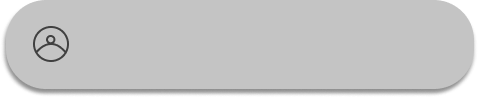
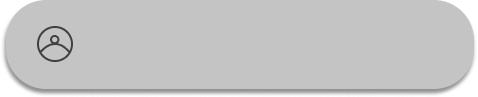
stuff

Changed region(s): [[0.0586, 0.2474, 0.1757, 0.6495]]

diff --git a/login_page.py b/login_page.py
@@ -3,7 +3,6 @@ import smtplib
 import random
 import requests
 
-
 # main window for login page
 login = Tk()
 login.geometry('1366x768')
@@ -102,36 +101,31 @@ password = StringVar()
 password.set('Password')
 
 # Button,Label and Placements
-user = Label(login,
-             text='Username',
-             font=('Arial', 20),
-             bg='#2FB2AB'
-             ).place(x=440, y=206)
+
+l_til = Label(login,
+              text='Login',
+              font=('Arial', 54),
+              bg='#2FB2AB', ).place(x=552, y=98, )
 
 userbox = PhotoImage(file='Images/Username Box.png')
 user_bg = Label(login,
                 image=userbox,
                 bg='#2FB2AB',
-                bd=0).place(x=406, y=247, )
+                bd=0).place(x=406, y=236, )
 user_ent = Entry(login,
                  text=username,
                  font=('Arial', 20),
                  bd=0,
                  bg='#C4C4C4',
-                 ).place(x=480, y=275, )
-
-passw = Label(login,
-              text='Password',
-              font=('Arial', 20),
-              bg='#2FB2AB'
-              ).place(x=440, y=363)
+                 )
+user_ent.place(x=500, y=260, )
 
 passbox = PhotoImage(file='Images/Password Box.png')
 passw_bg = Label(login,
                  image=passbox,
                  bg='#2FB2AB',
                  )
-passw_bg.place(x=406, y=406, )
+passw_bg.place(x=406, y=395, )
 
 pass_ent = Entry(login,
                  show='*',
@@ -140,7 +134,7 @@ pass_ent = Entry(login,
                  bd=0,
                  bg='#C4C4C4',
                  )
-pass_ent.place(x=482, y=440, )
+pass_ent.place(x=500, y=424, )
 
 b_login = Button(login,
                  text='Login',
